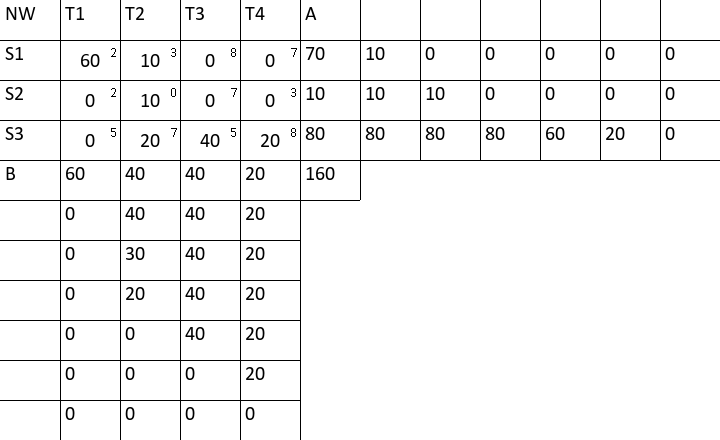
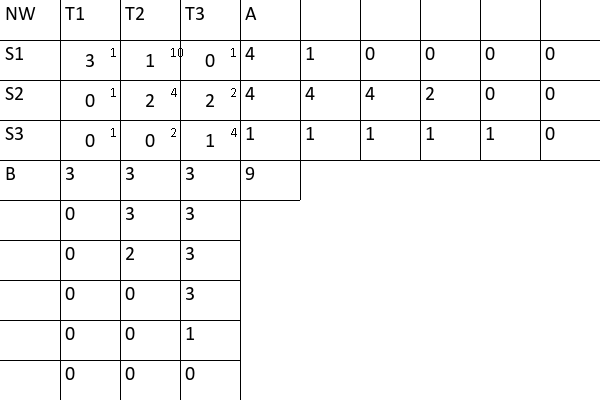
many changes

Changed region(s): [[0.0, 0.0, 1.0, 1.0], [0.0, 0.0, 0.06, 0.06]]

diff --git a/nwcorner.py b/nwcorner.py
@@ -111,15 +111,15 @@ class NW_method:
         draw.text((cell_size[0] * (col_num - 1) + padding, cell_size[1] * (row_num - 1) + padding),
                   str(sum(self.stock)), font=font, fill='black')
 
-        for i in range(row_num + 1, row_num + len(self.a_matrix)):
+        for i in range(col_num + 1, col_num + len(self.a_matrix)):
             for j in range(1, len(self.a_matrix[0]) + 1):
-                draw.text((cell_size[0] * i + padding, cell_size[1] * j + padding),
-                          str(self.a_matrix[i - row_num][j - 1]), font=font, fill='black')
+                draw.text((cell_size[0] * (i - 1) + padding, cell_size[1] * j + padding),
+                          str(self.a_matrix[i - col_num][j - 1]), font=font, fill='black')
 
-        for i in range(col_num + 1, col_num + len(self.b_matrix)):
+        for i in range(row_num + 1, row_num + len(self.b_matrix)):
             for j in range(1, len(self.b_matrix[0]) + 1):
-                draw.text((cell_size[0] * j + padding, cell_size[1] * (i - 2) + padding),
-                          str(self.b_matrix[i - col_num][j - 1]), font=font, fill='black')
+                draw.text((cell_size[0] * j + padding, cell_size[1] * (i - 1) + padding),
+                          str(self.b_matrix[i - row_num][j - 1]), font=font, fill='black')
 
         img.save(f"pictures/nwcorner{self.message.from_user.id}.png")
 
@@ -153,25 +153,9 @@ class NW_method:
 
                 self.matrix[i][j].capacity = min_val
 
-                # for l in self.matrix:
-                #    for m in l:
-                #        print(f'{m.capacity}\t', end='')
-                #    print('\n')
-                # print('------------------')
-
                 k += 1
 
     def show_matrix(self):
         self.solution_of_matrix()
         self._create_table()
-        result = ''
-        for row in self.matrix:
-            for cell in row:
-                result += str(cell.capacity) + '/' + str(cell.price) + ' '
-
-            result = result[:-1] + '\n'
-
-        result += 'A=' + ' '.join(map(str, self.stock)) + '\n'
-        result += 'B=' + ' '.join(map(str, self.proposal))
-
-        self.bot.send_message(self.message.from_user.id, result)
+        return self.matrix

diff --git a/main.py b/main.py
@@ -7,18 +7,12 @@ from telebot import types
 bot = telebot.TeleBot('1213161131:AAGbWfQTDsmfHOoEzz_y2QpNEalvZLMmcdI')
 
 
-def numeric_keyboard():
-    markup = types.ReplyKeyboardMarkup()
+def command_choice(command):
+    markup = types.ReplyKeyboardMarkup(one_time_keyboard=True)
 
-    for i in range(1, 10, 3):
-        elem1 = types.KeyboardButton(str(i))
-        elem2 = types.KeyboardButton(str(i + 1))
-        elem3 = types.KeyboardButton(str(i + 2))
-        markup.row(elem1, elem2, elem3)
-
-    space = types.KeyboardButton(" ")
-    enter = types.KeyboardButton("\n")
-    markup.row(space, enter)
+    accept = types.KeyboardButton(command)
+    exit_command = types.KeyboardButton("/exit")
+    markup.row(accept, exit_command)
 
     return markup
 
@@ -80,6 +74,7 @@ def nwcorner_body(message):
         method.show_matrix()
         with open(f"pictures/nwcorner{message.from_user.id}.png", "rb") as pic:
             bot.send_photo(message.from_user.id, photo=pic)
+        bot.send_message(message.from_user.id, "План построен")
     except:
         bot.send_message(message.from_user.id, "Неверный ввод. Чтобы попробовать еще раз, введите /nwcorner")
 

diff --git a/privilege_checker.py b/privilege_checker.py
@@ -4,6 +4,9 @@ from json import load
 def privilege_check(bot):
     def decorator(func):
         def wrapper(message):
+            if message.text == '/exit':
+                return None
+
             with open("data_files/users.json") as f:
                 users = load(f)
 
